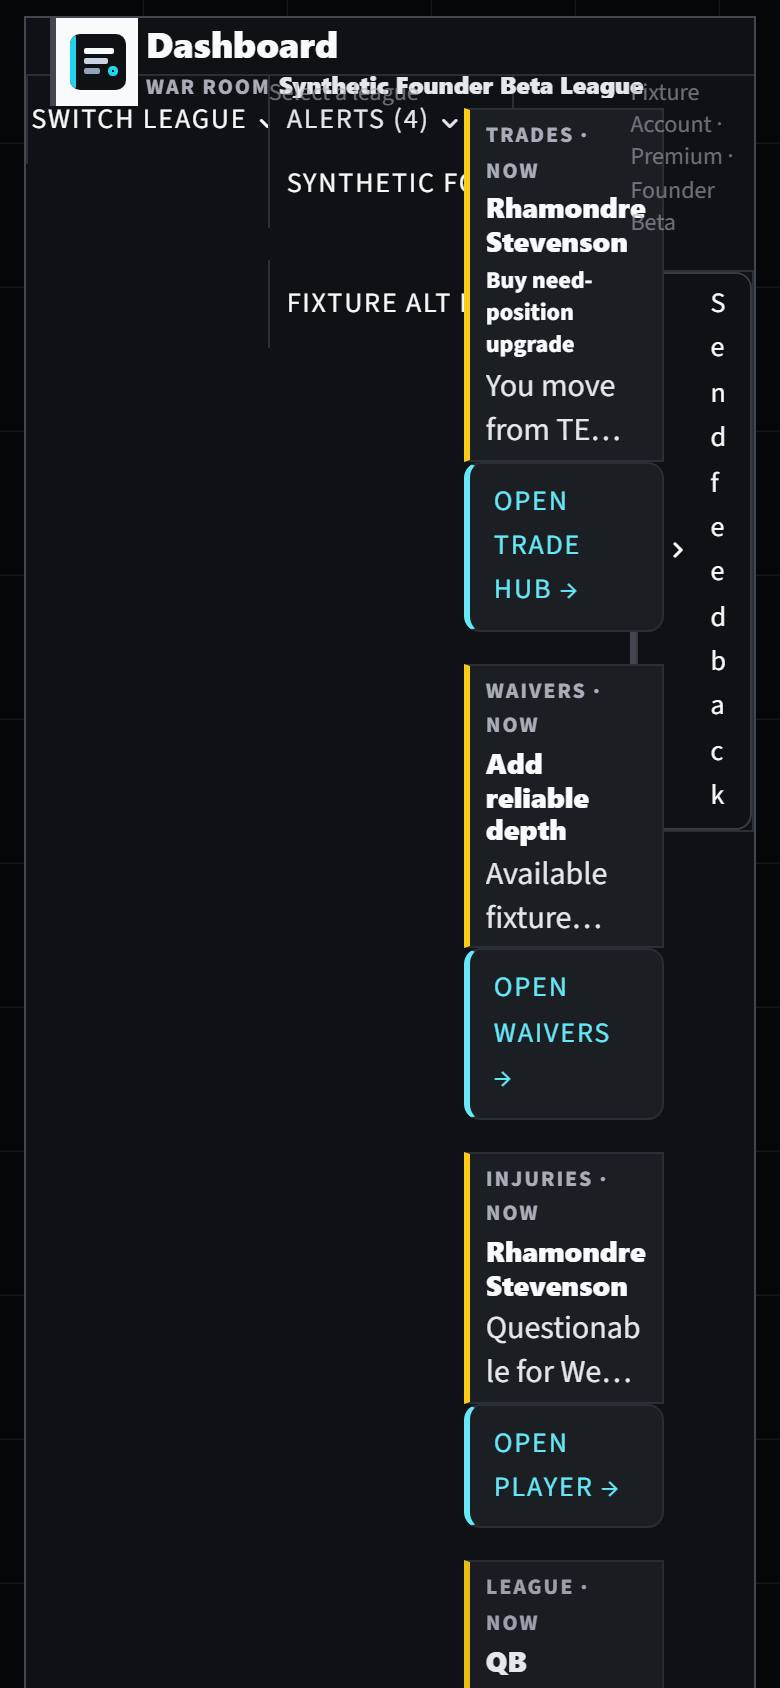
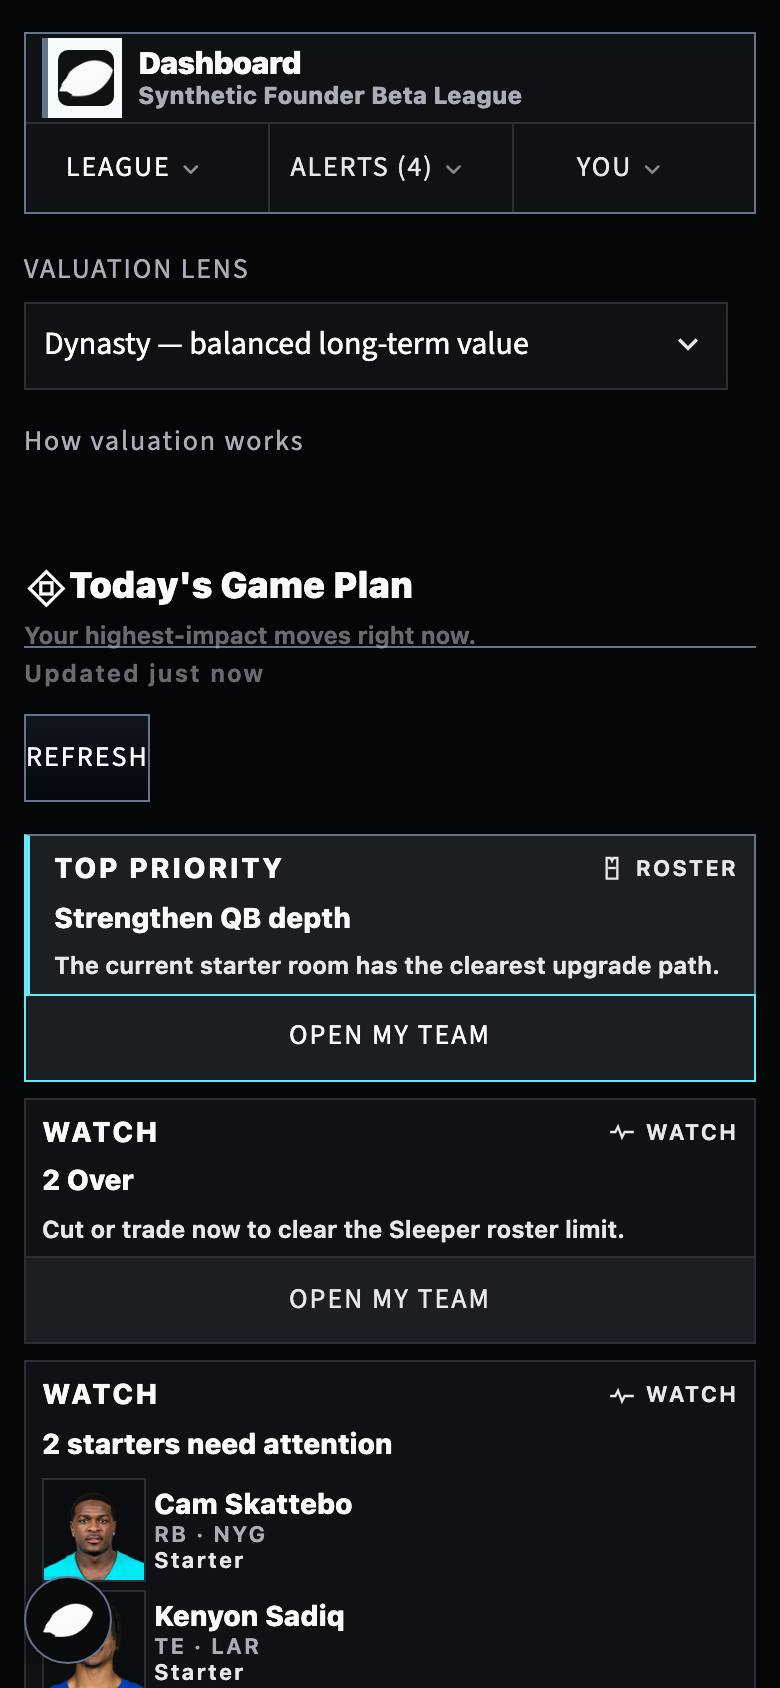
Regenerate stale/broken landing screenshots; add mobile coming-soon badge to static landing page
coridian_ flagged (Discord) that the welcome page's screenshots look
auto-generated and off-scheme, and that nothing tells users mobile apps are
coming. Audited both modules/marketing_landing.py (in-app welcome page) and
static/landing/index.html (bare-apex marketing page) before touching
anything:

- dashboard.jpg, dashboard-desktop.jpg, and decision-memory.jpg were
  captured at PR #174 (2026-08-07), before ~1,600 commits of redesigns
  (Waivers, Trade Hub, My Team, Day/Night/System theme, etc). They were also
  dead code until PR #923 wired render_screenshot_gallery() into the live
  page yesterday, so this is the first time they'd actually reach users —
  and the captures were visibly broken: overlapping page-title text, a
  stuck-open alerts drawer, and a notification sidebar rendering one
  character per line. Regenerated all three against current main with
  scripts/capture_marketing_screenshots.py (plus trade-hub.jpg and
  waivers.jpg, the capture script's other outputs, as a side effect of the
  same run). trade-share.jpg/waiver-share.jpg/player-share.jpg are generated
  separately via modules/share_card_renderer.py and were already current.
- static/landing/index.html referenced the same broken dashboard-desktop.jpg
  for its "GM Targets" screenshot; scripts/build_static_landing_assets.py
  re-copied the regenerated version into static/landing/assets/.
- The in-app welcome page has had an honest "Coming soon · iOS & Android
[…]

diff --git a/static/landing/index.html b/static/landing/index.html
@@ -33,6 +33,7 @@
       <h1 class="fgl-landing__value">Dynasty decisions, built around your league.</h1>
       <p class="fgl-landing__support">Import your Sleeper league and FantasyGM evaluates roster needs, trades, waivers, and players in the context that actually changes the decision.</p>
       <p class="fgl-landing__trust">No account required to try it · Sleeper supported</p>
+      <span class="fgl-landing__mobile-badge" title="Mobile apps are in private beta today"><em>Coming soon</em><span>iOS &amp; Android apps</span></span>
       <div class="fgl-landing__cta-row">
         <a class="fgl-landing__btn fgl-landing__btn--primary" href="https://app.fantasygmlab.com/?utm_source=static_landing&amp;utm_medium=cta">Import your league</a>
         <a class="fgl-landing__btn fgl-landing__btn--secondary" href="#how-it-works">See how it works</a>

diff --git a/static/landing/landing.css b/static/landing/landing.css
@@ -157,6 +157,37 @@ a {
   max-width: 40rem;
 }
 
+.fgl-landing__mobile-badge {
+  align-items: center;
+  background: rgba(5, 6, 7, 0.72);
+  border: 1px solid var(--fgl-border);
+  border-inline-start: 2px solid rgba(34, 211, 238, 0.72);
+  border-radius: 999px;
+  display: inline-flex;
+  flex-wrap: wrap;
+  gap: 0.35rem;
+  margin-top: 0.1rem;
+  padding: 0.22rem 0.65rem 0.22rem 0.55rem;
+  position: relative;
+  width: fit-content;
+  z-index: 1;
+}
+
+.fgl-landing__mobile-badge em {
+  color: var(--fgl-note);
+  font-size: 0.62rem;
+  font-style: normal;
+  font-weight: 800;
+  letter-spacing: 0.06em;
+  text-transform: uppercase;
+}
+
+.fgl-landing__mobile-badge span {
+  color: var(--fgl-muted);
+  font-size: 0.72rem;
+  font-weight: 650;
+}
+
 .fgl-landing__focus-note {
   border: 1px solid rgba(34, 211, 238, 0.28);
   color: #e2e8f0;

diff --git a/assets/marketing/README.md b/assets/marketing/README.md
@@ -14,6 +14,13 @@ Real FantasyGM Lab product assets used by the public Founder Beta landing.
 python scripts/capture_marketing_screenshots.py
 ```
 
+`dashboard.jpg`, `dashboard-desktop.jpg`, and `decision-memory.jpg` were
+regenerated 2026-10-09 against current `main` — the previous captures were
+from PR #174 (2026-08-07), predating several app redesigns, and had visibly
+broken renders (overlapping header text, a stuck-open notification drawer).
+Re-run the capture script above whenever the dashboard/My Team UI changes
+enough to make these look stale again.
+
 ## External launch kit
 
 Production-ready distribution pack (not mounted by Streamlit):
